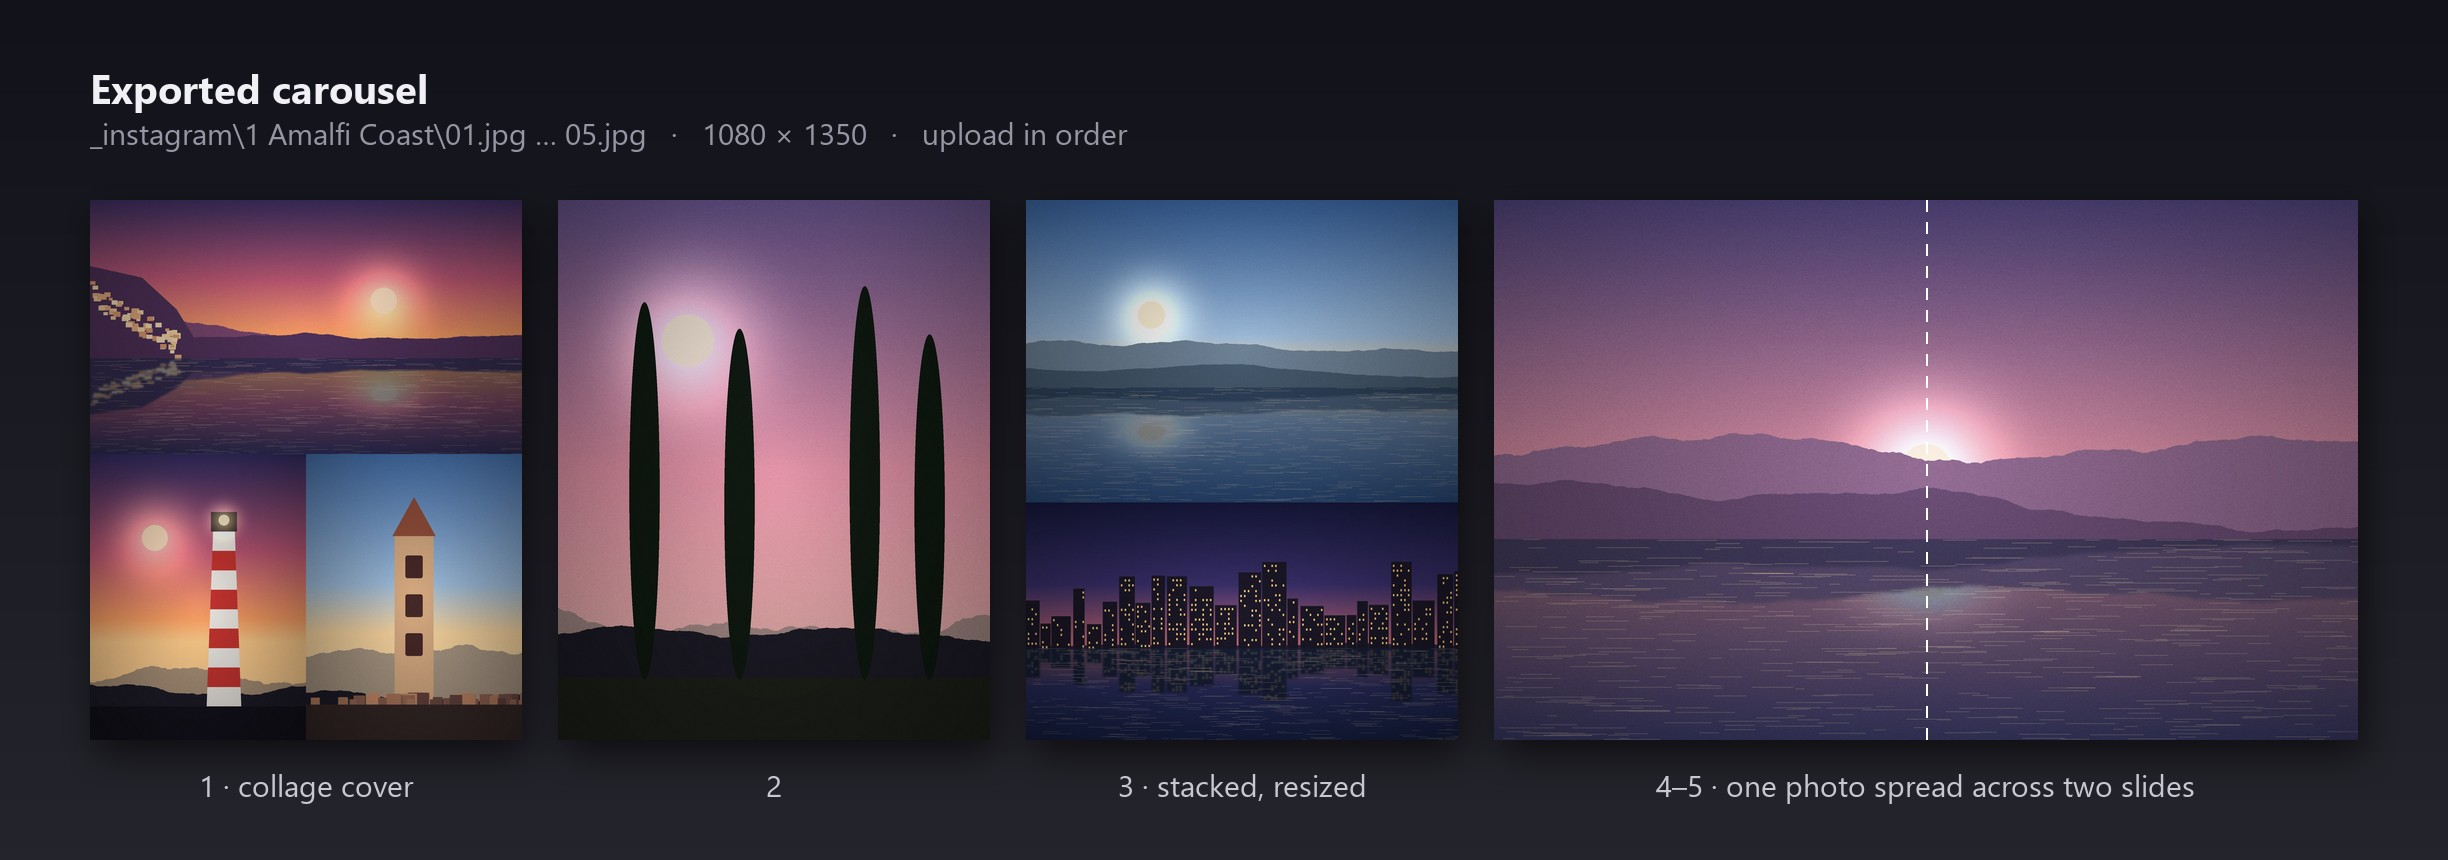
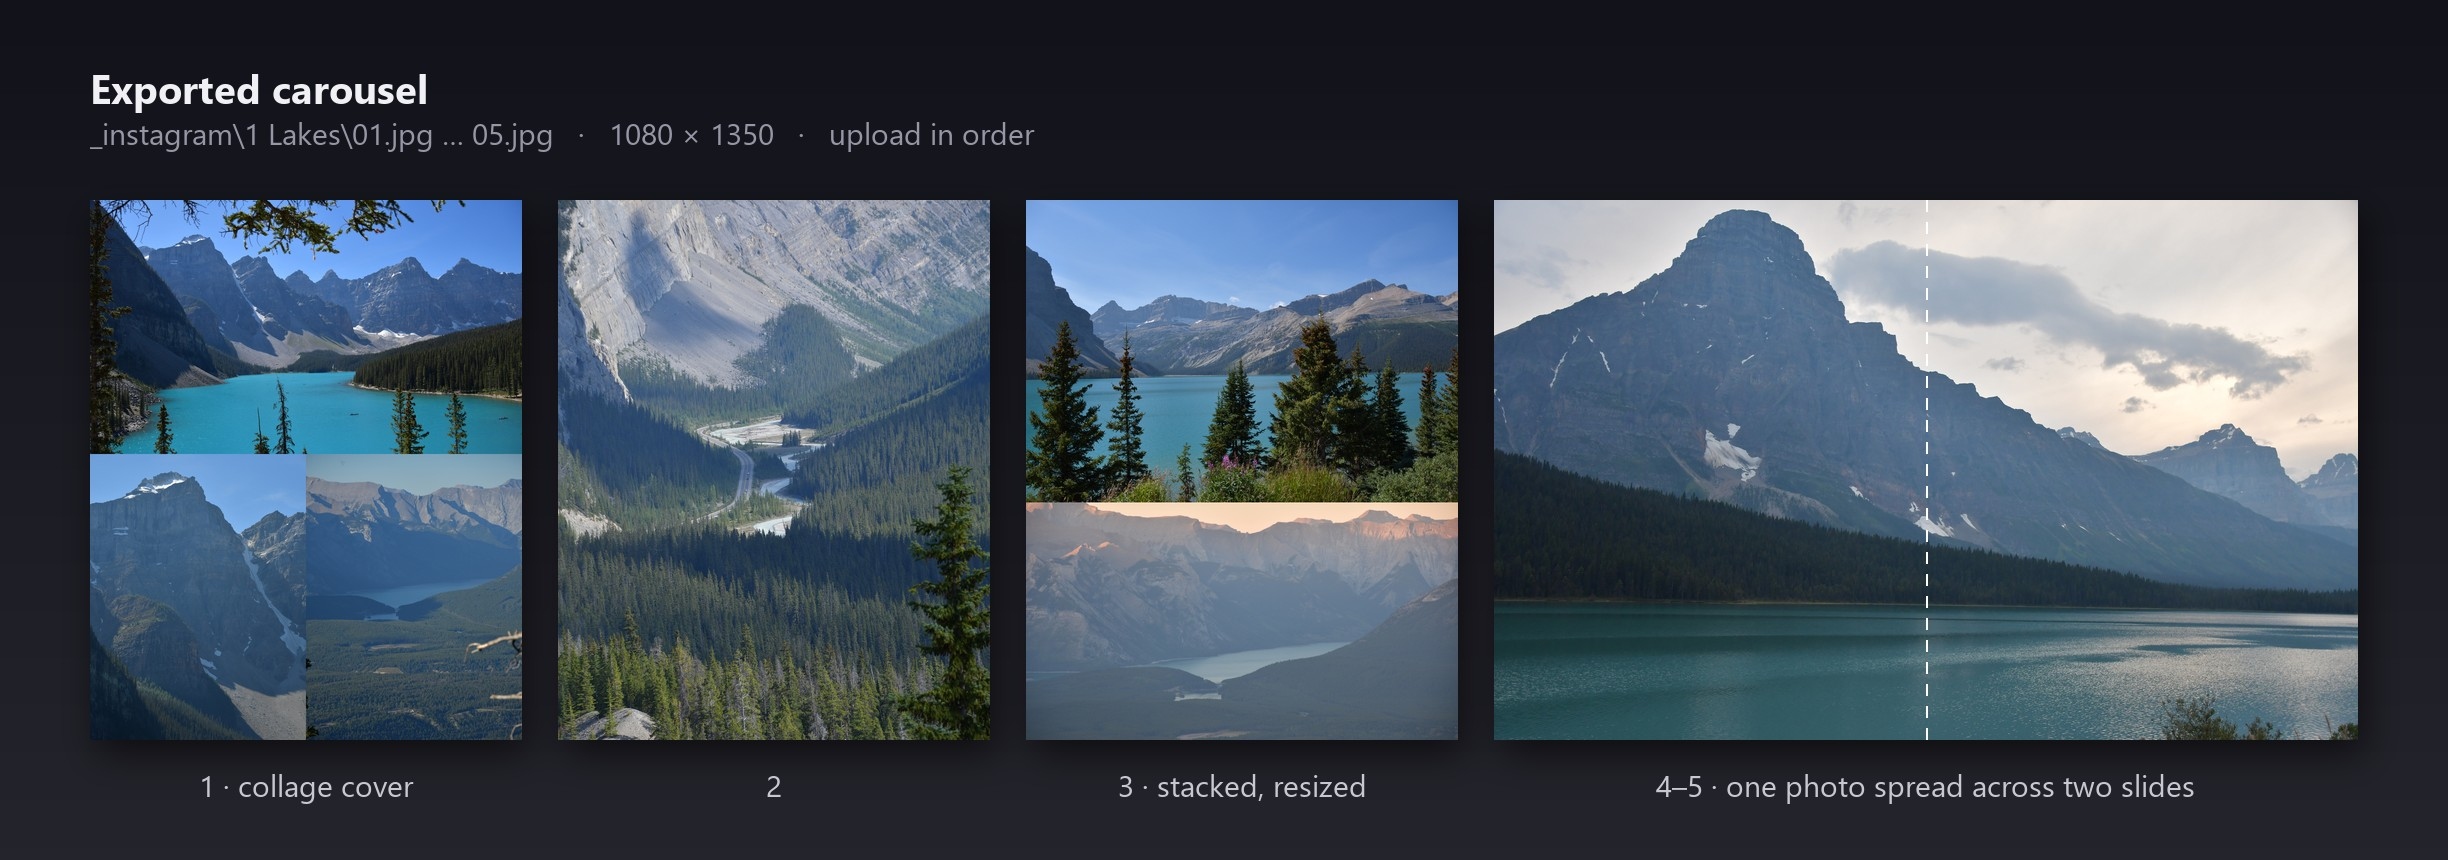
Use real Banff trip photos in README screenshots
Replace the generated demo images with D7500 shots from Banff and the
Icefields Parkway (landscapes only, no people). Published images are
re-rendered screenshots and exports, with no camera EXIF or GPS data.

diff --git a/README.md b/README.md
@@ -43,7 +43,7 @@ it, nudge the details, and export. Every post is ready to upload in a few minute
 
 ![The exported carousel: collage cover, single, resized stack, and a two-slide spread](docs/carousel.jpg)
 
-<sub>Screenshots use generated demo images.</sub>
+<sub>Screenshots: Banff and the Icefields Parkway, shot on a Nikon D7500.</sub>
 
 ## Quick start: portable exe (nothing to install)
 
